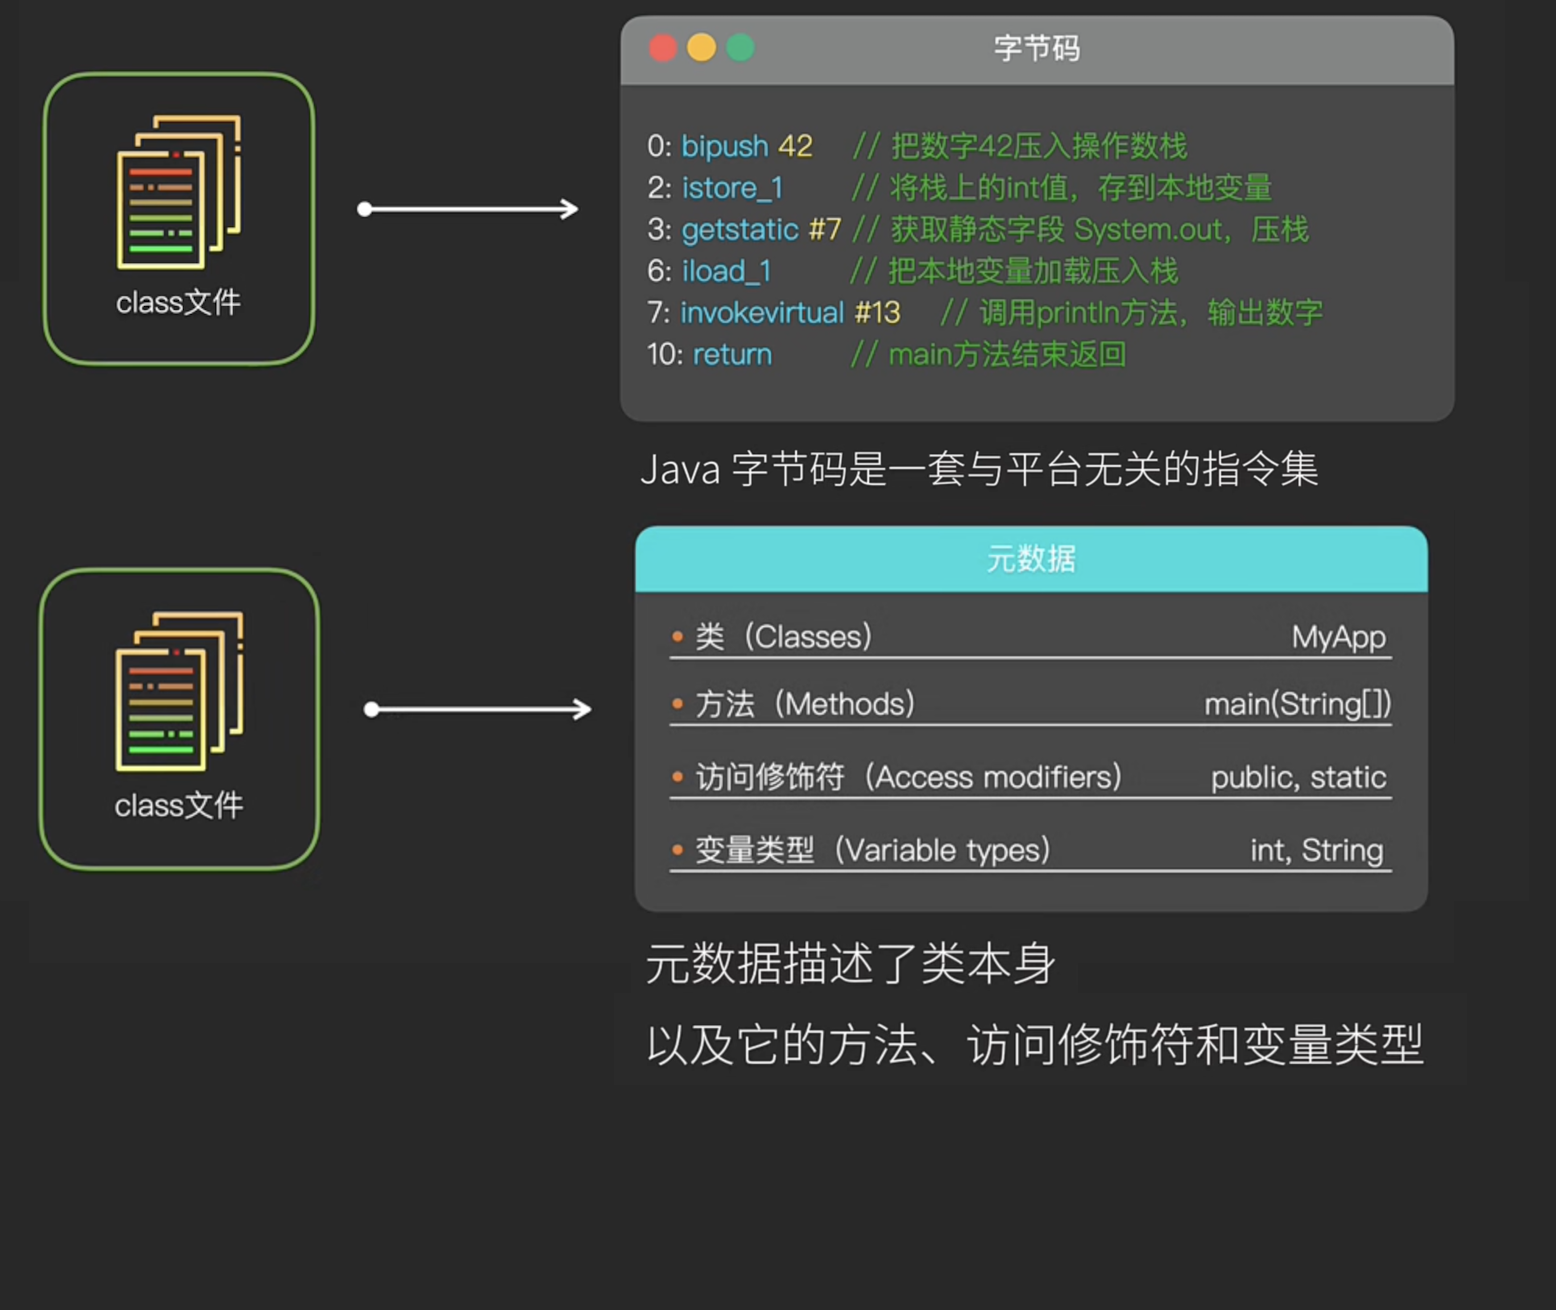
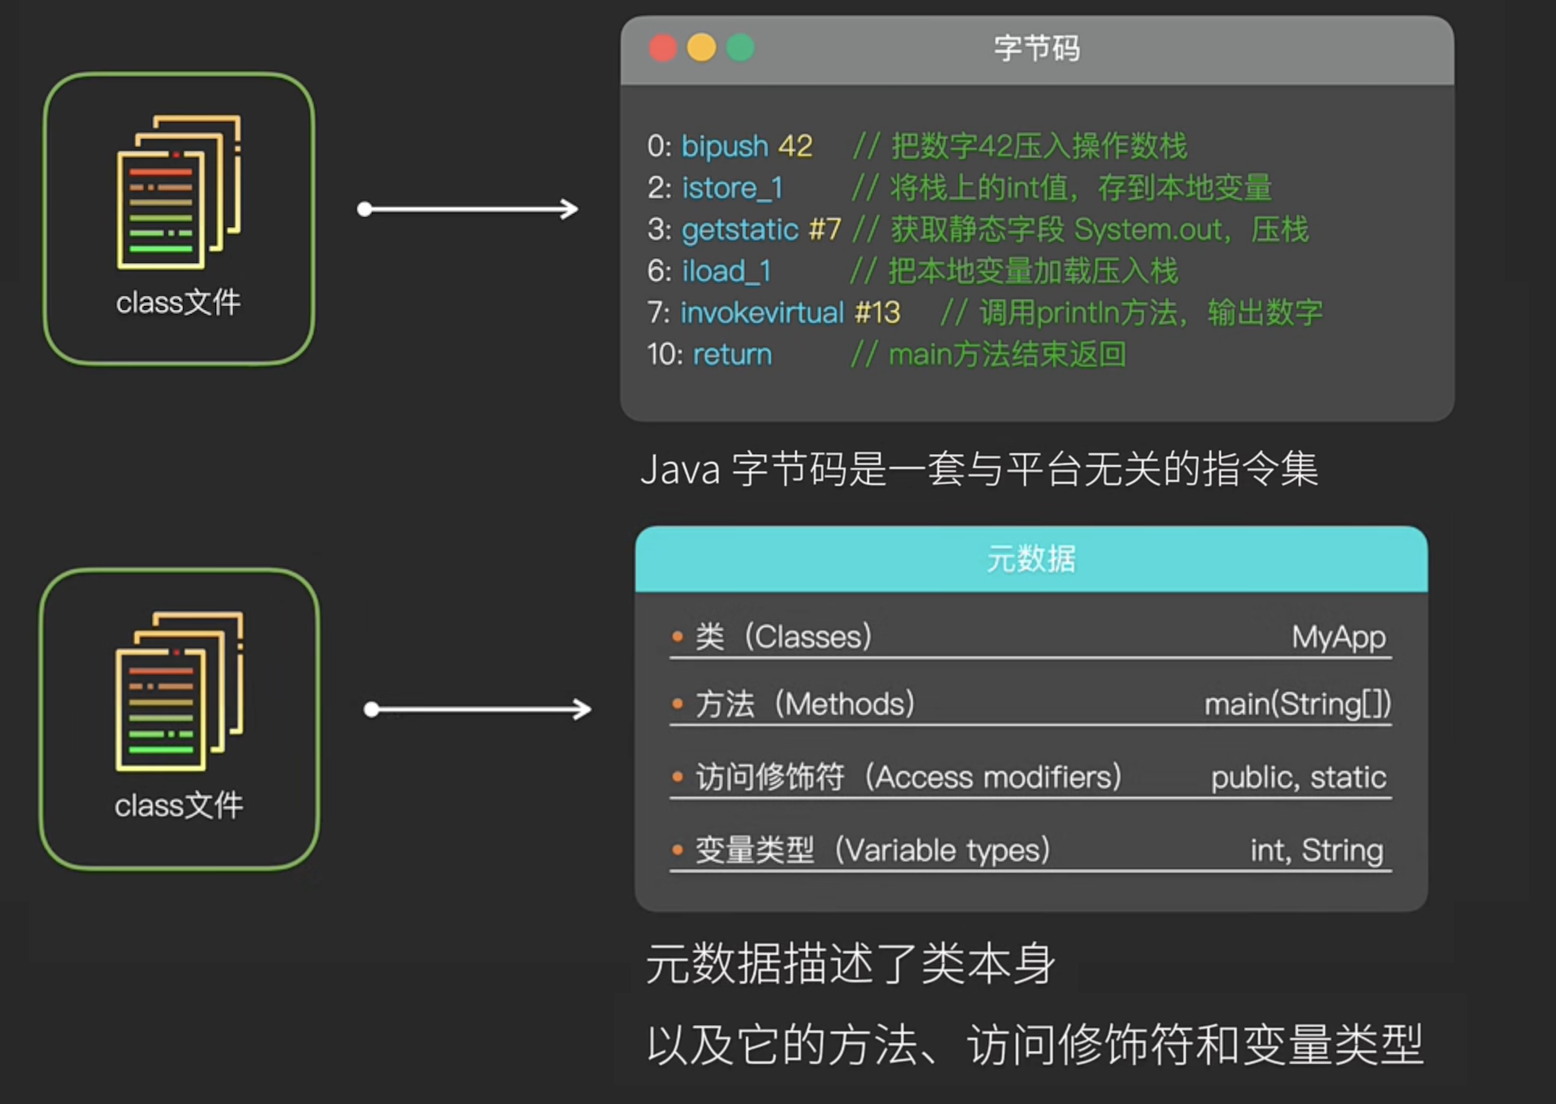
refresh class file and jvm runtime

diff --git a/off-heap-memory/src/main/java/AllocationOutsideMemory.java b/off-heap-memory/src/main/java/AllocationOutsideMemory.java
@@ -1,13 +1,9 @@
-package native_memory;
-
 import java.nio.ByteBuffer;
 
 // TODO. Java程序能够引用JVM以外的内存: 实现Zero-Copy零拷贝
 public class AllocationOutsideMemory {
 
-    // ByteBuffer.allocate()
-    // 使用HeapByteBuffer直接在JVM的数据区"堆"内存中分配空间
-    // 添加的数据可以直接通过buffer查看
+    // HeapByteBuffer.allocate() 直接在JVM的数据区"堆"内存中分配空间
     public static void main(String[] args) {
         ByteBuffer buffer = ByteBuffer.allocate(1000);
         for (int j = 0; j < 200; j++) {
